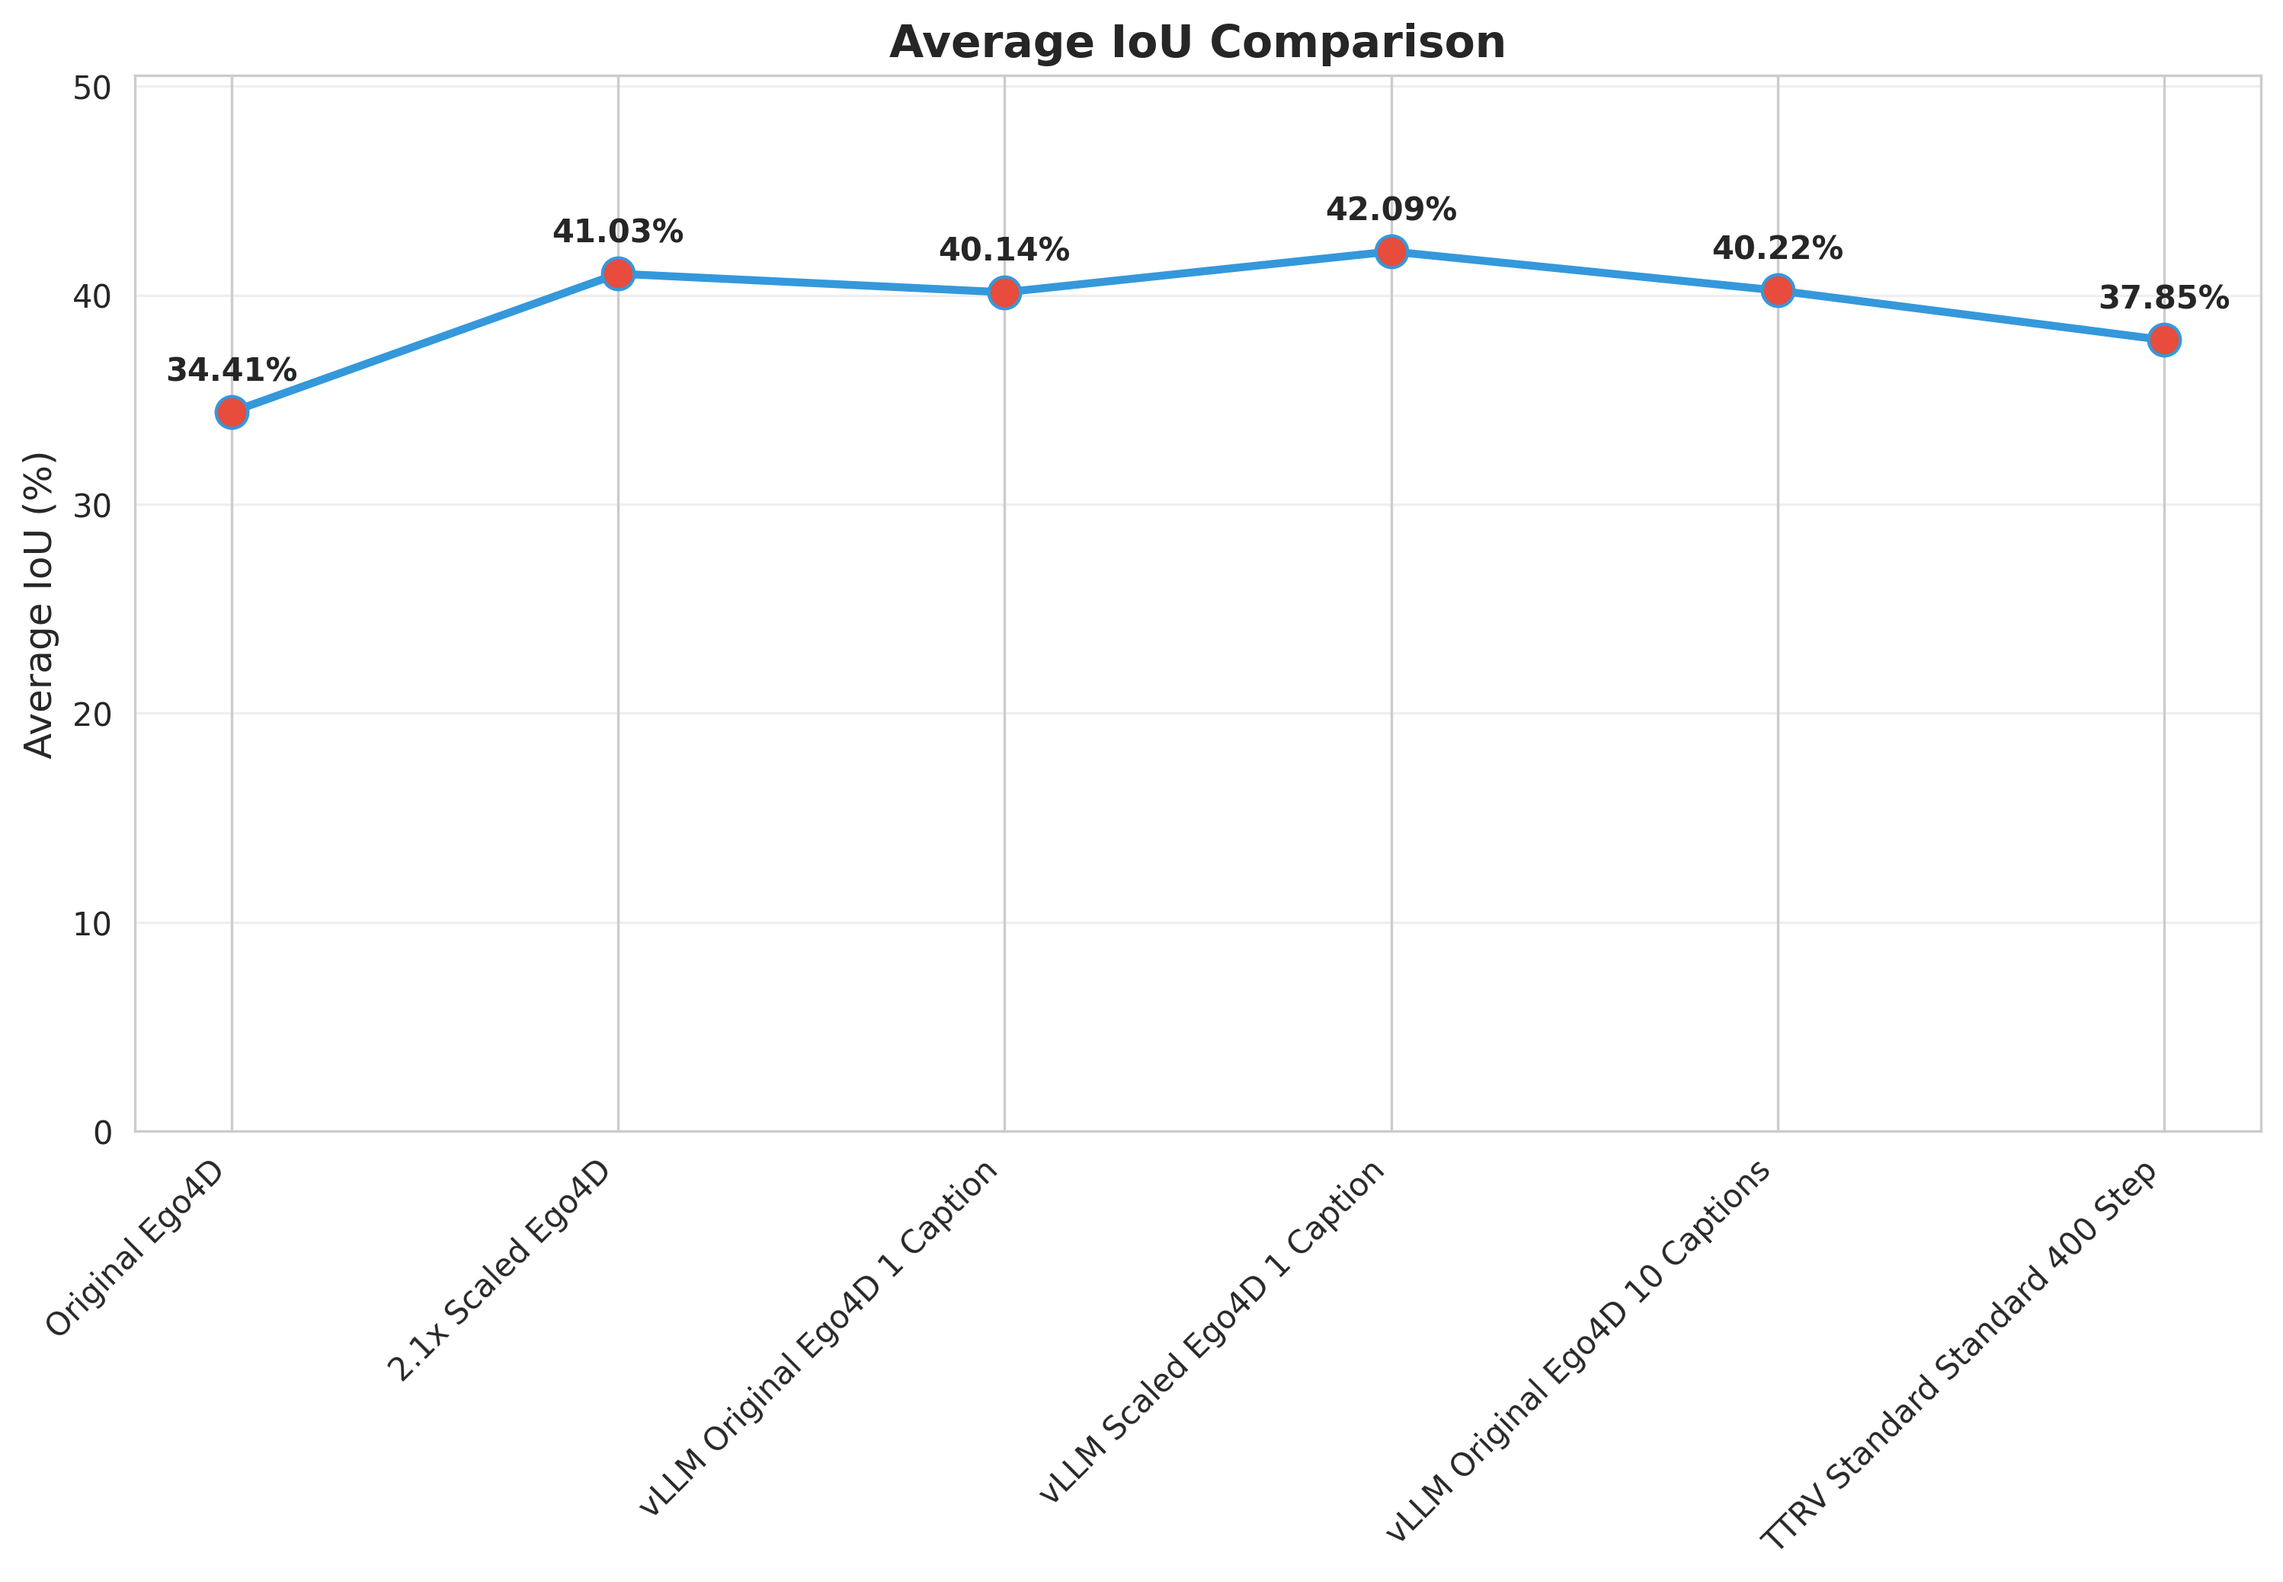
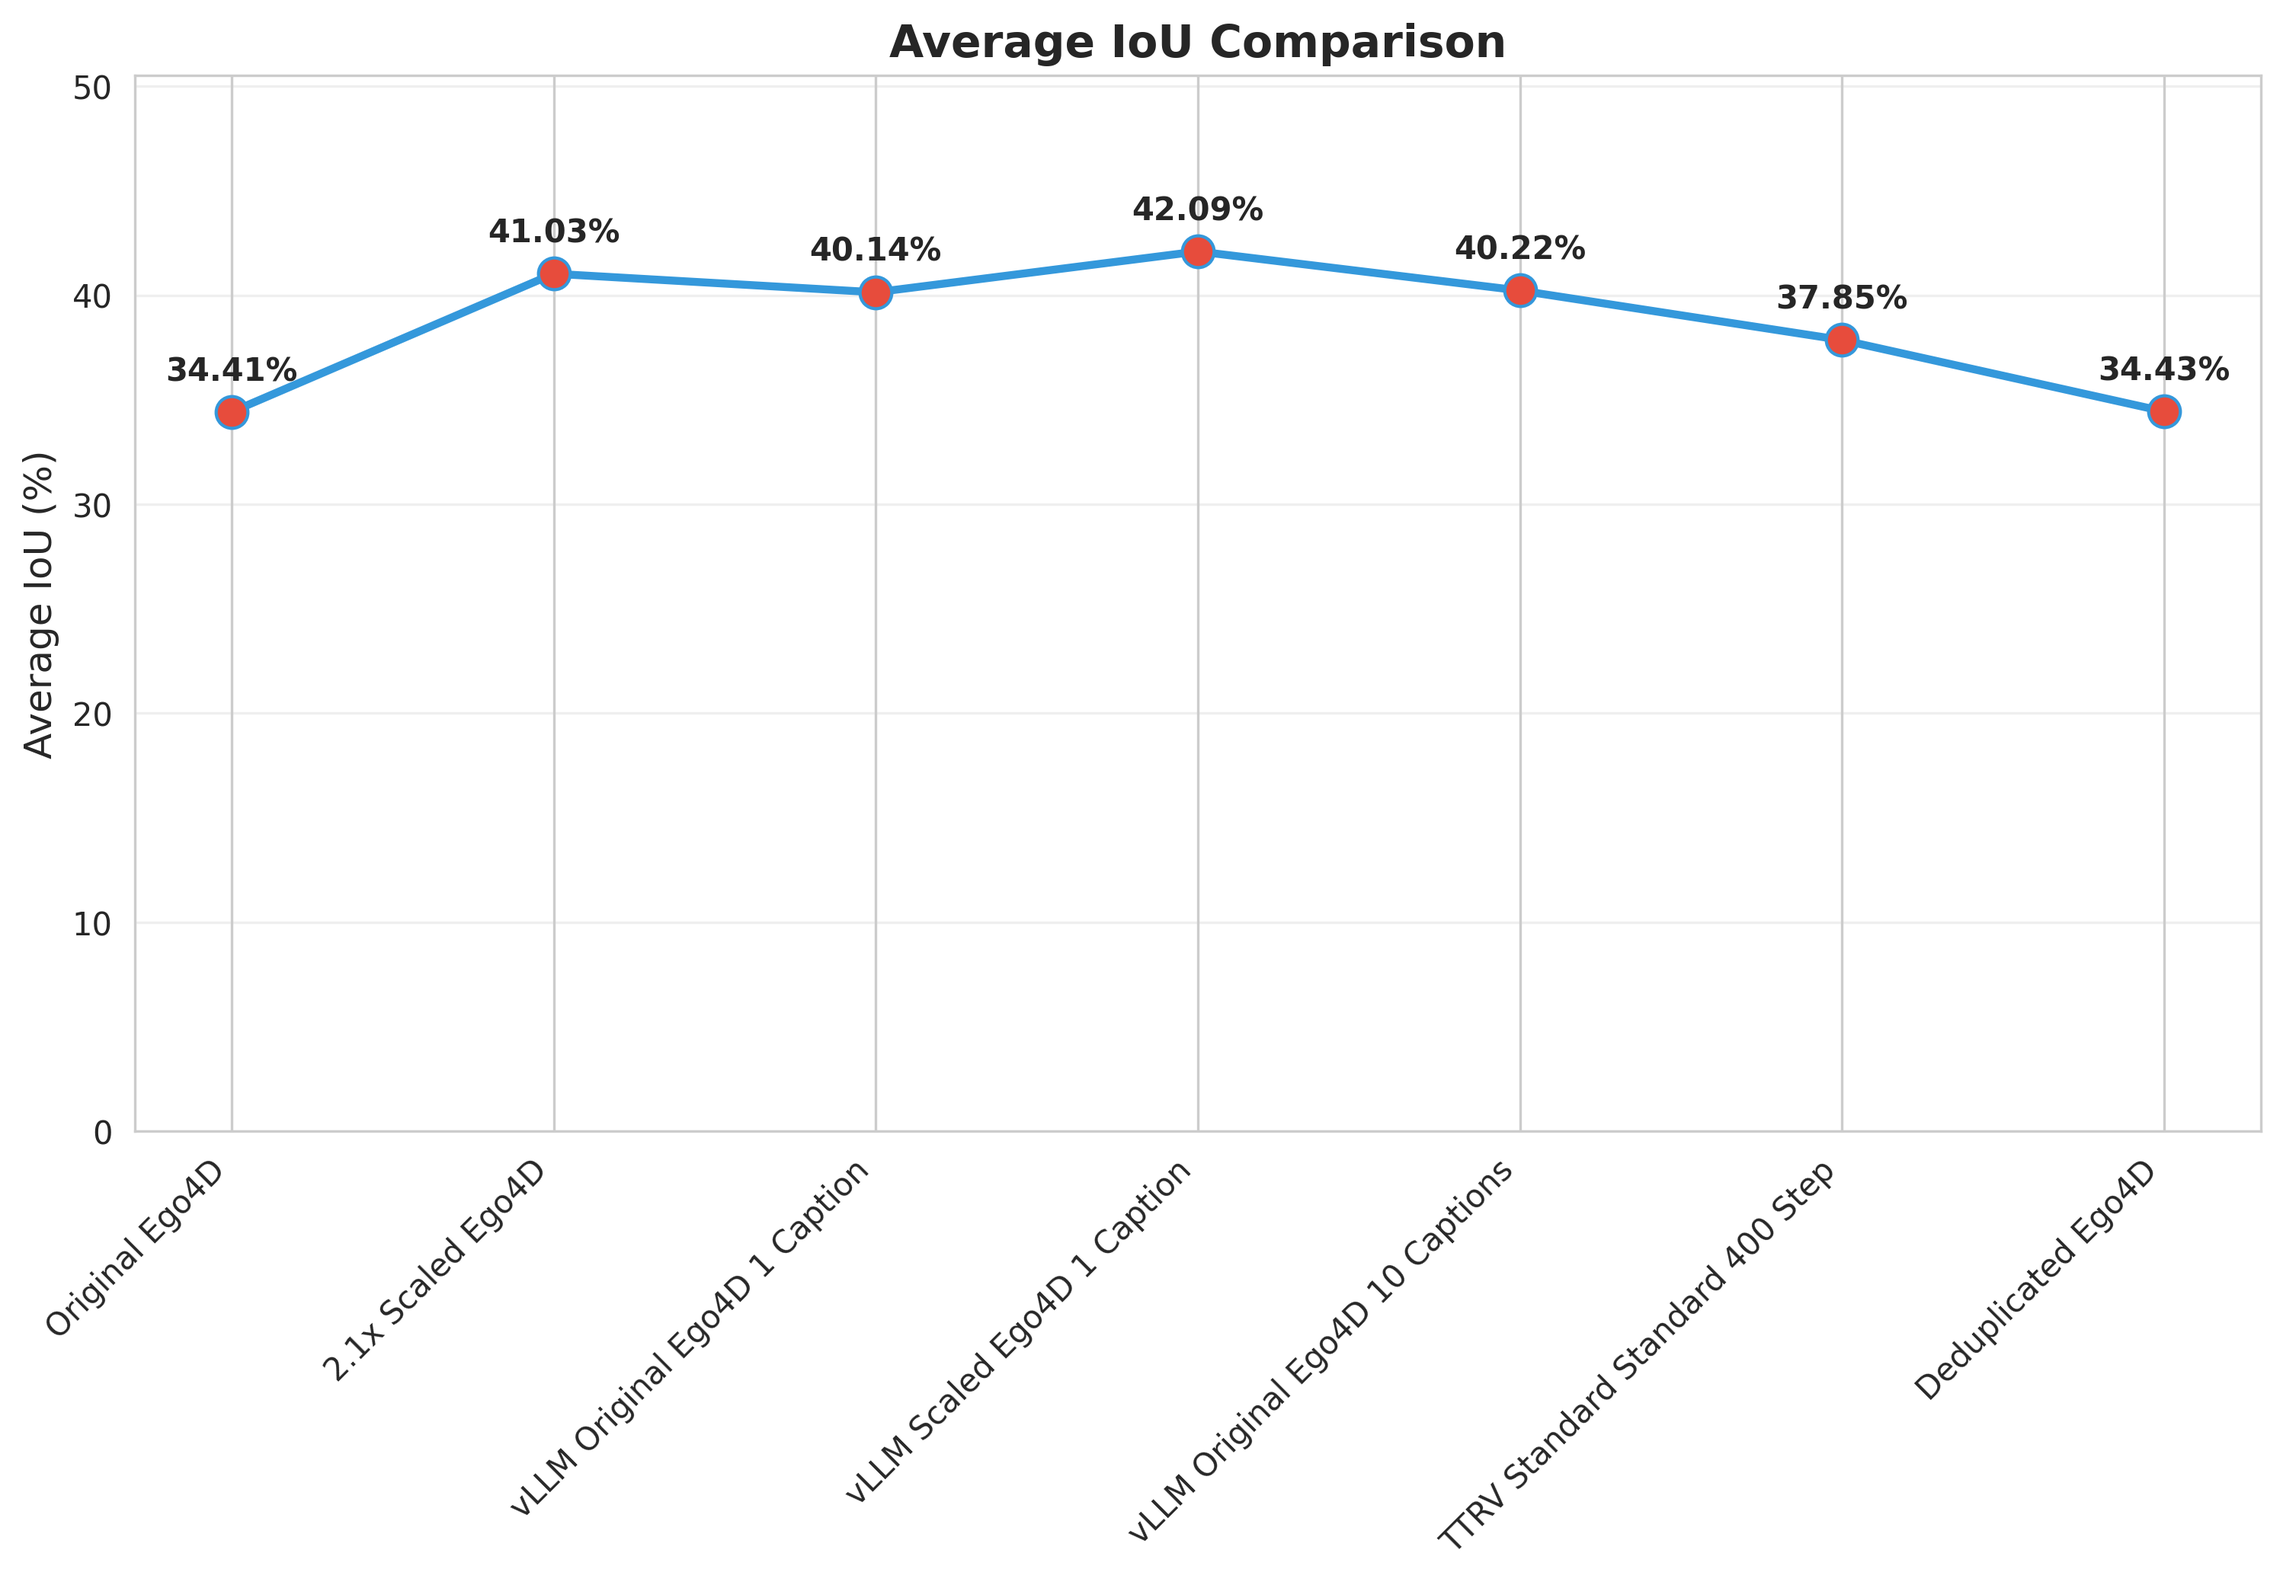
Checkpoint

diff --git a/second_party/preprocess/dataset_preprocessing_phase2.py b/second_party/preprocess/dataset_preprocessing_phase2.py
@@ -1,0 +1,134 @@
+import torch
+import pickle as pkl
+from vllm import LLM, SamplingParams
+from collections import defaultdict
+from transformers import AutoTokenizer
+
+MODEL_ID = "Qwen/Qwen3-32B"
+MAX_MODEL_CONTEXT = 32768 * 4
+GPU_COUNT = torch.cuda.device_count()
+
+INPUT_DATA_PATH = (
+    "/dais/fs/scratch/dduka/databases/ego4d/ego4d_train_deduplicated_with_uuid.pkl"
+)
+
+OUTPUT_DATA_PATH = (
+    "/dais/fs/scratch/dduka/databases/ego4d/ego4d_train_timestamp_fixed.pkl"
+)
+
+PROMPT_TEXT = """### TASK: Semantic Grouping & Timestamp Alignment
+**CONTEXT**: 
+The input contains captions from an egocentric video (camera wearer "#C"). 
+Currently, the data is noisy: the same action (e.g., "#C picks up the cup") is listed multiple times with slight timestamp variations and synonym changes (e.g., "#C takes the cup").
+This hurts training. We need to **merge** these into single events.
+
+**INPUT CAPTIONS** (Format: [start, end] #C caption):
+{captions_str}
+
+### INSTRUCTIONS:
+
+1. **IDENTIFY CLUSTERS**: Group captions that describe the **EXACT SAME VISUAL MOMENT**.
+   - **Temporal overlap**: They must overlap significantly or be nearly consecutive.
+   - **Semantic identity**: They must describe the **same atomic interaction** (e.g., "opens fridge" vs "pulls fridge door").
+   - **Ignore Formatting**: Ignore differences in capitalization, punctuation, or "#C " prefix.
+
+2. **COMPUTE UNION**: For each cluster:
+   - `new_start` = Minimum start time of the group.
+   - `new_end` = Maximum end time of the group.
+
+3. **PRESERVE TEXT**: 
+   - Do NOT delete any captions. 
+   - Do NOT summarize text.
+   - Every input caption must appear in the output, but with the **new unified timestamps** of its cluster.
+
+4. **OUTPUT**: Return a valid JSON array of objects.
+
+Output the JSON immediately after in the following format:
+```json
+[
+    {
+        "start": new_start_time_in_seconds or original_start_time_in_seconds,
+        "end": new_end_time_in_seconds or original_end_time_in_seconds,
+        "caption": "the original caption text"
+    },
+...
+]
+```
+"""
+
+
+def video_captions_to_message(samples):
+    captions = []
+    for item in samples:
+        start_timestamp = item[1]
+        end_timestamp = item[2]
+        caption_text = item[3]
+        captions.append(f"[{start_timestamp}, {end_timestamp}] {caption_text}")
+    captions_str = "\n".join(captions)
+    prompt = PROMPT_TEXT.replace("{captions_str}", captions_str)
+
+    message = [
+        {
+            "role": "system",
+            "content": (
+                "You are an expert data curator for **Egocentric Video (First-Person)** datasets. "
+                "Your task is to clean noisy training data where multiple annotators have described the **same atomic action** using slightly different words and slightly offset timestamps.\n\n"
+                "**Your Goal:** Normalize these into a single temporal event while **preserving all unique text descriptions** as valuable linguistic augmentations."
+            ),
+        },
+        {"role": "user", "content": prompt},
+    ]
+
+    return message
+
+
+if __name__ == "__main__":
+    print(f"Loading data from {INPUT_DATA_PATH}...")
+    with open(INPUT_DATA_PATH, "rb") as f:
+        dataset = pkl.load(f)
+    print(f"Loaded {len(dataset)} caption segments.")
+
+    # Grouping
+    grouped = defaultdict(list)
+    for item in dataset:
+        grouped[item[1]].append(item)
+
+    video_ids = []
+    for vid in grouped:
+        grouped[vid].sort(key=lambda x: x[2])
+        video_ids.append(vid)
+
+    print(f"Initializing {MODEL_ID}...")
+    llm = LLM(
+        model=MODEL_ID,
+        tensor_parallel_size=GPU_COUNT,
+        dtype="bfloat16",
+        gpu_memory_utilization=0.96,
+        trust_remote_code=True,
+        max_model_len=MAX_MODEL_CONTEXT,
+    )
+
+    tokenizer = AutoTokenizer.from_pretrained(MODEL_ID)
+
+    video_id = list(grouped.keys())[0]
+
+    message = video_captions_to_message(grouped[video_id])
+
+    prompt = tokenizer.apply_chat_template(
+        message,
+        tokenize=False,
+        add_generation_prompt=True,
+        enable_thinking=True,
+    )
+
+    sampling_params = SamplingParams(
+        temperature=0.6,
+        top_p=0.95,
+        top_k=20,
+        max_tokens=16384,
+    )
+
+    outputs = llm.generate([prompt], sampling_params)
+    text = outputs[0].outputs[0].text
+
+    print(text)
